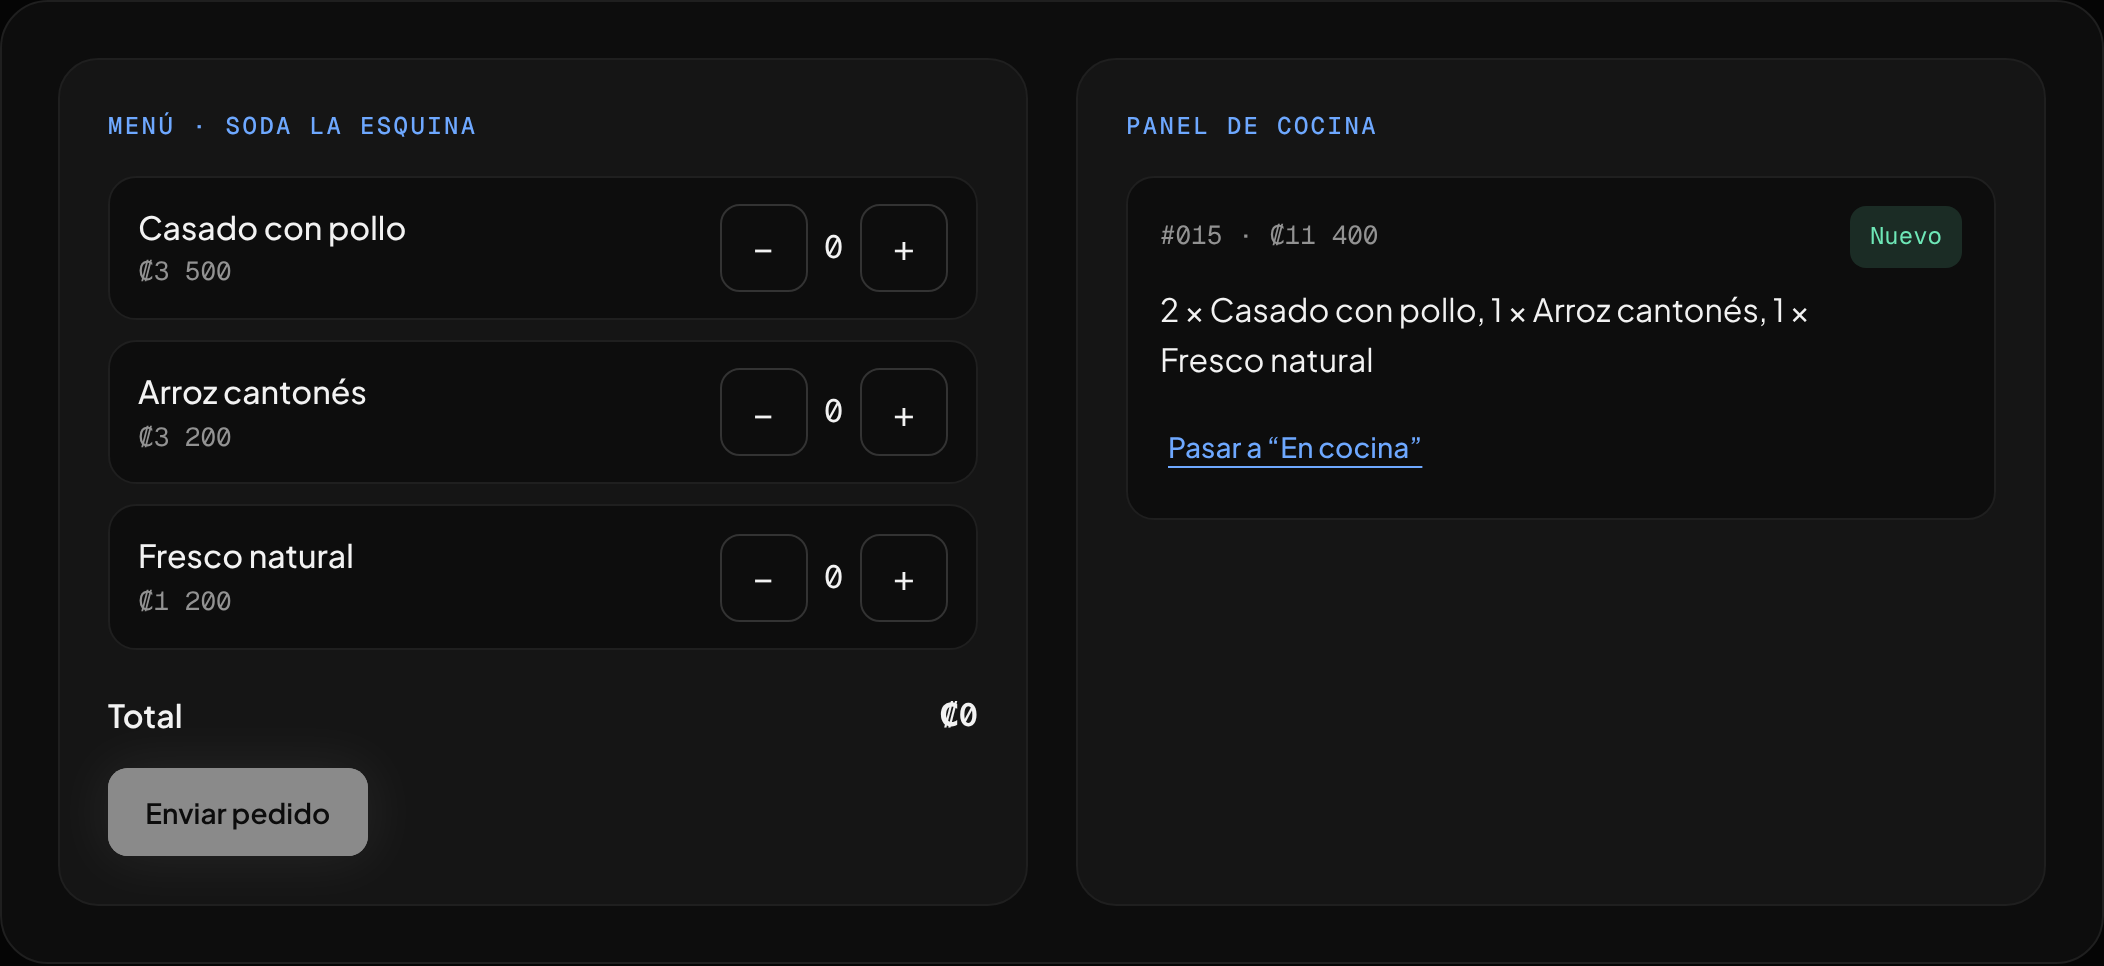
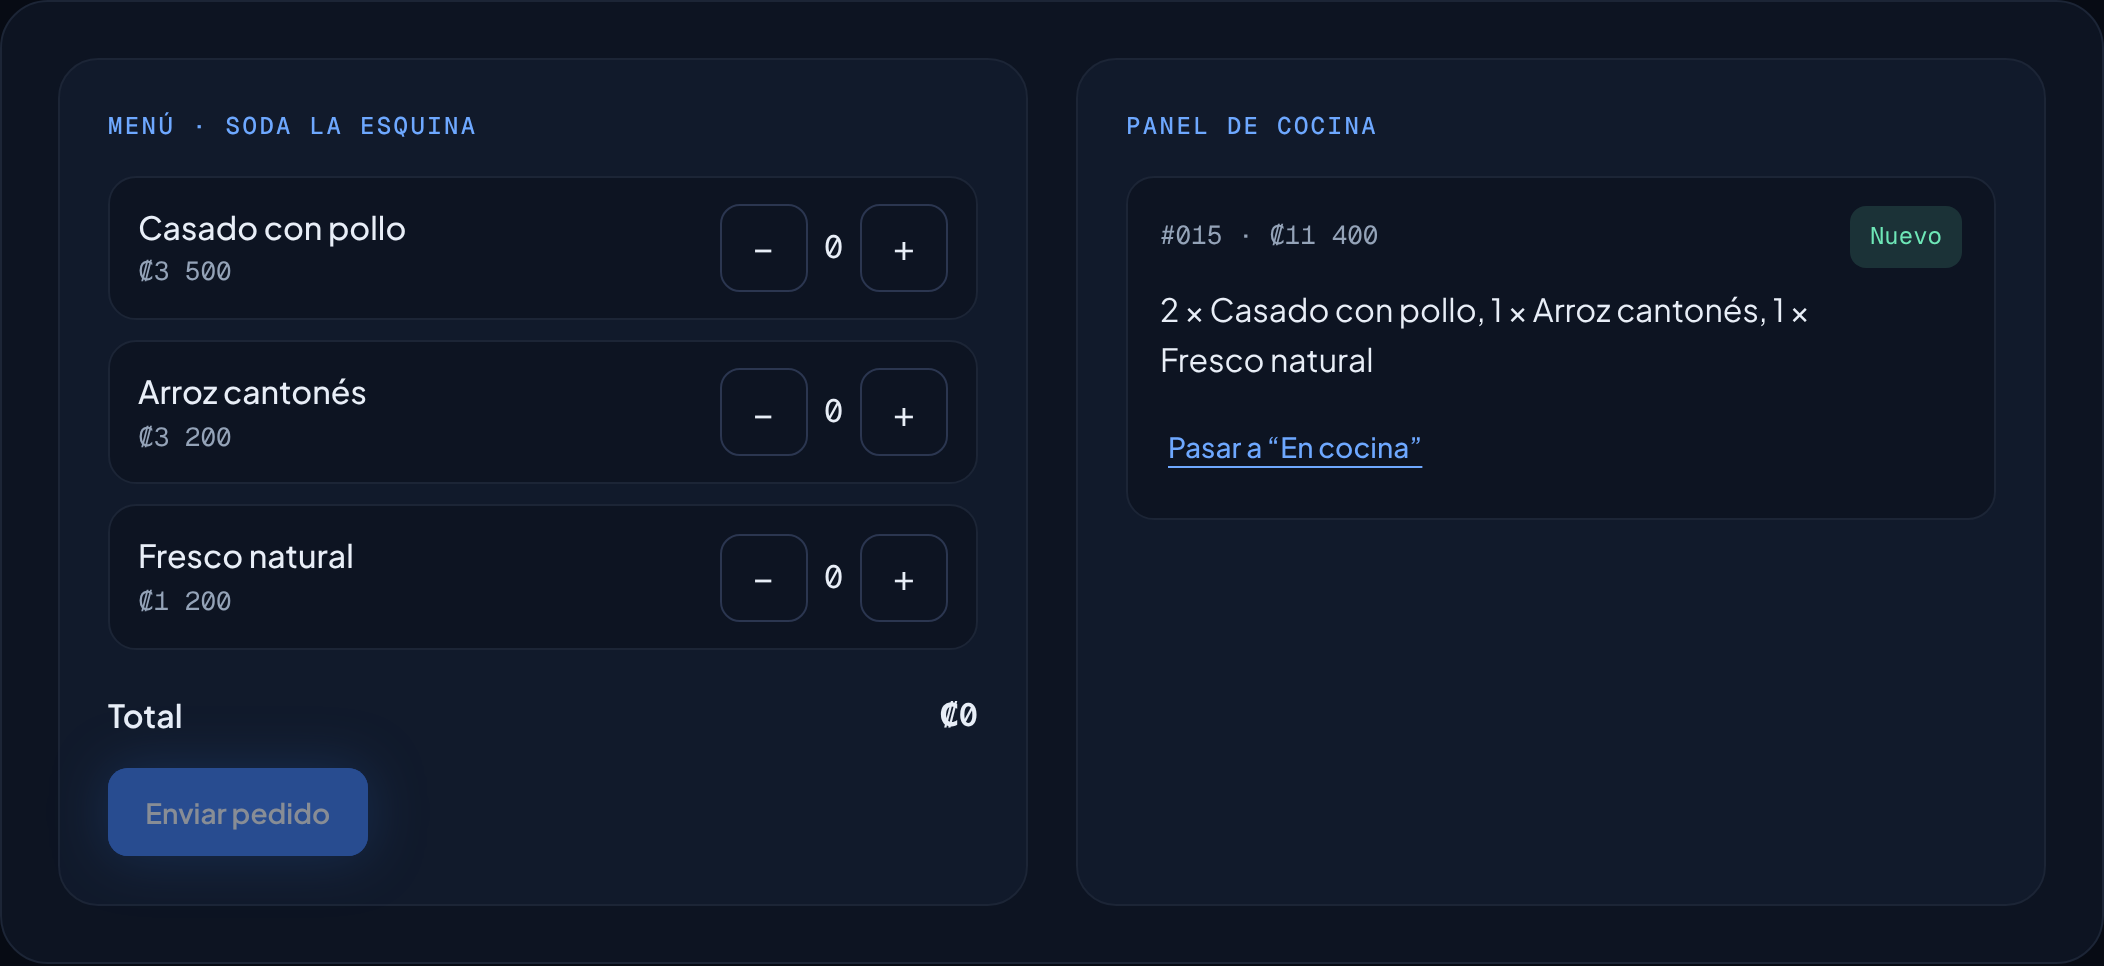
style(theme): volver a la paleta azul empresarial
De Portfolite se conserva la estructura y no los colores: titulares en
peso 500, brillo azul en los botones y capturas de las demos regeneradas.

diff --git a/src/styles/tokens.css b/src/styles/tokens.css
@@ -1,36 +1,35 @@
 /*
  * Design tokens. Every color, size and curve used by the components lives
  * here, so the palette or the type scale changes in one place.
- * Palette: monochrome with a minimal blue accent (dark only). Blue is
- * reserved for links, focus, live states and one detail per section.
+ * Palette: "azul empresarial" (dark only).
  */
 :root {
   color-scheme: dark;
 
   /* Backgrounds */
-  --color_bg: #050505;
-  --color_surface: #0d0d0d;
-  --color_raised: #151515;
+  --color_bg: #070b14;
+  --color_surface: #0d1422;
+  --color_raised: #111a2b;
 
   /* Lines */
-  --color_line: #1f1f1f;
-  --color_line_strong: #333333;
+  --color_line: #1c2536;
+  --color_line_strong: #2b3650;
 
   /* Text */
-  --color_text: #f2f2f2;
-  --color_text_secondary: #b5b5b5;
-  --color_text_muted: #929292;
-  --color_nav_link: #cfcfcf;
+  --color_text: #e8eef7;
+  --color_text_secondary: #b4c0d3;
+  --color_text_muted: #94a3b8;
+  --color_nav_link: #c5d0e0;
 
   /* Accent */
   --color_accent: #3d8bff;
   --color_accent_text: #6ea8ff;
   --color_accent_hover: #a9cbff;
-  /* Primary button: white on black, like the rest of the monochrome system */
-  --color_cta: #f2f2f2;
-  --color_cta_hover: #ffffff;
-  --color_on_cta: #050505;
-  --color_glow: rgb(255 255 255 / 0.16);
+  --color_cta: #2f6feb;
+  --color_cta_hover: #3f7ef5;
+  --color_on_cta: #ffffff;
+  /* Soft halo behind buttons on hover */
+  --color_glow: rgb(61 139 255 / 0.35);
   --color_accent_tint: rgb(61 139 255 / 0.08);
   --color_accent_tint_strong: rgb(61 139 255 / 0.16);
   --color_accent_border: rgb(61 139 255 / 0.35);
@@ -43,8 +42,8 @@
   --color_warn_bg: rgb(252 211 77 / 0.14);
   --color_bad: #fca5a5;
   --color_bad_bg: rgb(252 165 165 / 0.14);
-  --color_neutral: #d4d4d4;
-  --color_neutral_bg: rgb(212 212 212 / 0.12);
+  --color_neutral: #cbd5e1;
+  --color_neutral_bg: rgb(180 192 211 / 0.14);
 
   /* Typography */
   --font_sans: 'Plus Jakarta Sans Variable', ui-sans-serif, system-ui, -apple-system, 'Segoe UI', Roboto, sans-serif;

diff --git a/src/styles/global.css b/src/styles/global.css
@@ -148,9 +148,10 @@ main:focus {
 /* Blue band: the rhythm accent between plain sections */
 .section_blue {
   background:
-    radial-gradient(60% 90% at 90% 0%, rgb(61 139 255 / 0.1), transparent 60%),
-    linear-gradient(180deg, #0b0b0b, #101010);
-  border-block: 1px solid var(--color_line);
+    radial-gradient(70% 110% at 88% 0%, rgb(47 111 235 / 0.22), transparent 62%),
+    radial-gradient(50% 80% at 0% 100%, rgb(61 139 255 / 0.1), transparent 70%),
+    linear-gradient(180deg, #0a1428, #0b1631);
+  border-block: 1px solid rgb(61 139 255 / 0.18);
 }
 
 .visually_hidden {
@@ -168,7 +169,7 @@ main:focus {
 /* ── Type helpers ─────────────────────────────────── */
 .section_title {
   font-size: var(--text_h2);
-  font-weight: 400;
+  font-weight: 500;
   line-height: 1.06;
   letter-spacing: -0.04em;
 }
@@ -291,7 +292,7 @@ main:focus {
 }
 
 .btn_ghost::before {
-  border: 1px solid var(--color_text_secondary);
+  border: 1px solid var(--color_accent);
   box-shadow: 0 0 24px var(--color_glow);
 }
 
@@ -386,7 +387,7 @@ main:focus {
   width: 360px;
   height: 360px;
   border-radius: 50%;
-  background: radial-gradient(circle, rgb(255 255 255 / 0.08), rgb(255 255 255 / 0) 70%);
+  background: radial-gradient(circle, rgb(61 139 255 / 0.16), rgb(61 139 255 / 0) 70%);
   opacity: 0;
   pointer-events: none;
   transition: opacity var(--duration_base) ease;

diff --git a/src/scripts/hero_lines.worker.ts b/src/scripts/hero_lines.worker.ts
@@ -62,9 +62,8 @@ function build() {
     const y3 = H * (-0.15 + t * 0.75) + (rand() - 0.5) * H * 0.12;
     const alpha = 0.02 + Math.pow(rand(), 3) * 0.42;
     const width = 0.5 + rand() * 1.3;
-    // Mostly neutral gray lines; the blue lives in the pulses
-    const hue = 215;
-    const light = 55 + rand() * 25;
+    const hue = 210 + rand() * 16;
+    const light = 48 + rand() * 22;
     const lift = H * (0.2 + rand() * 0.25);
     lines.push({
       y0,
@@ -73,7 +72,7 @@ function build() {
       y3,
       alpha,
       width,
-      color: `hsla(${hue},6%,${light}%,`,
+      color: `hsla(${hue},92%,${light}%,`,
       phase: (i * 2.399) % (Math.PI * 2),
       speed: 0.12 + ((i * 7) % 13) / 13 * 0.22,
       amp: H * (0.012 + ((i * 11) % 17) / 17 * 0.028),
@@ -196,9 +195,9 @@ function draw(now: number) {
   // Same darkening as the static image: calmer bottom-left behind the text
   ctx.globalCompositeOperation = 'source-over';
   const mask = ctx.createLinearGradient(0, H, W * 0.7, 0);
-  mask.addColorStop(0, 'rgba(5,5,5,0.9)');
-  mask.addColorStop(0.55, 'rgba(5,5,5,0.35)');
-  mask.addColorStop(1, 'rgba(5,5,5,0)');
+  mask.addColorStop(0, 'rgba(5,8,15,0.9)');
+  mask.addColorStop(0.55, 'rgba(5,8,15,0.35)');
+  mask.addColorStop(1, 'rgba(5,8,15,0)');
   ctx.fillStyle = mask;
   ctx.fillRect(0, 0, W, H);
 

diff --git a/src/lib/og_image.ts b/src/lib/og_image.ts
@@ -25,11 +25,11 @@ const loadFonts = () =>
   ));
 
 const COLORS = {
-  bg: '#050505',
-  glow: '#1C1C1C',
-  line: '#333333',
-  text: '#F2F2F2',
-  secondary: '#B5B5B5',
+  bg: '#070B14',
+  glow: '#172B5C',
+  line: '#2B3650',
+  text: '#E8EEF7',
+  secondary: '#B4C0D3',
   accent: '#6EA8FF',
 };
 

diff --git a/README.md b/README.md
@@ -278,7 +278,7 @@ Idiomas: español (por defecto, sin prefijo) e inglés (`/en`), con rutas traduc
 - **Proyectos** (`kind: project`): casos de estudio con `case` (antes, qué se automatizó, hoy y etiquetas). El resultado solo dice hechos; no se inventan cifras.
 - **Redirecciones:** las URLs antiguas `/productos/*` y `/en/products/*` responden 301 a su nueva ruta (`astro.config.mjs`).
 - **Capturas del portafolio:** las tarjetas de proyecto usan `src/assets/work/<clave>.png`, tomadas de la demo de cada proyecto. Si una demo cambia: `yarn build && yarn capture:work`.
-- **Paleta:** monocroma con azul mínimo (enlaces, foco, estados en vivo y un detalle por sección).
+- **Paleta:** azul empresarial. De Portfolite se toma la estructura (pastilla, scroll, franja, casos), los titulares en peso 500 y el brillo de los botones, no los colores.
 - **Testimonios:** no hay sección hasta tener testimonios reales con permiso de cada cliente.
 
 ## SEO, AEO y GEO
